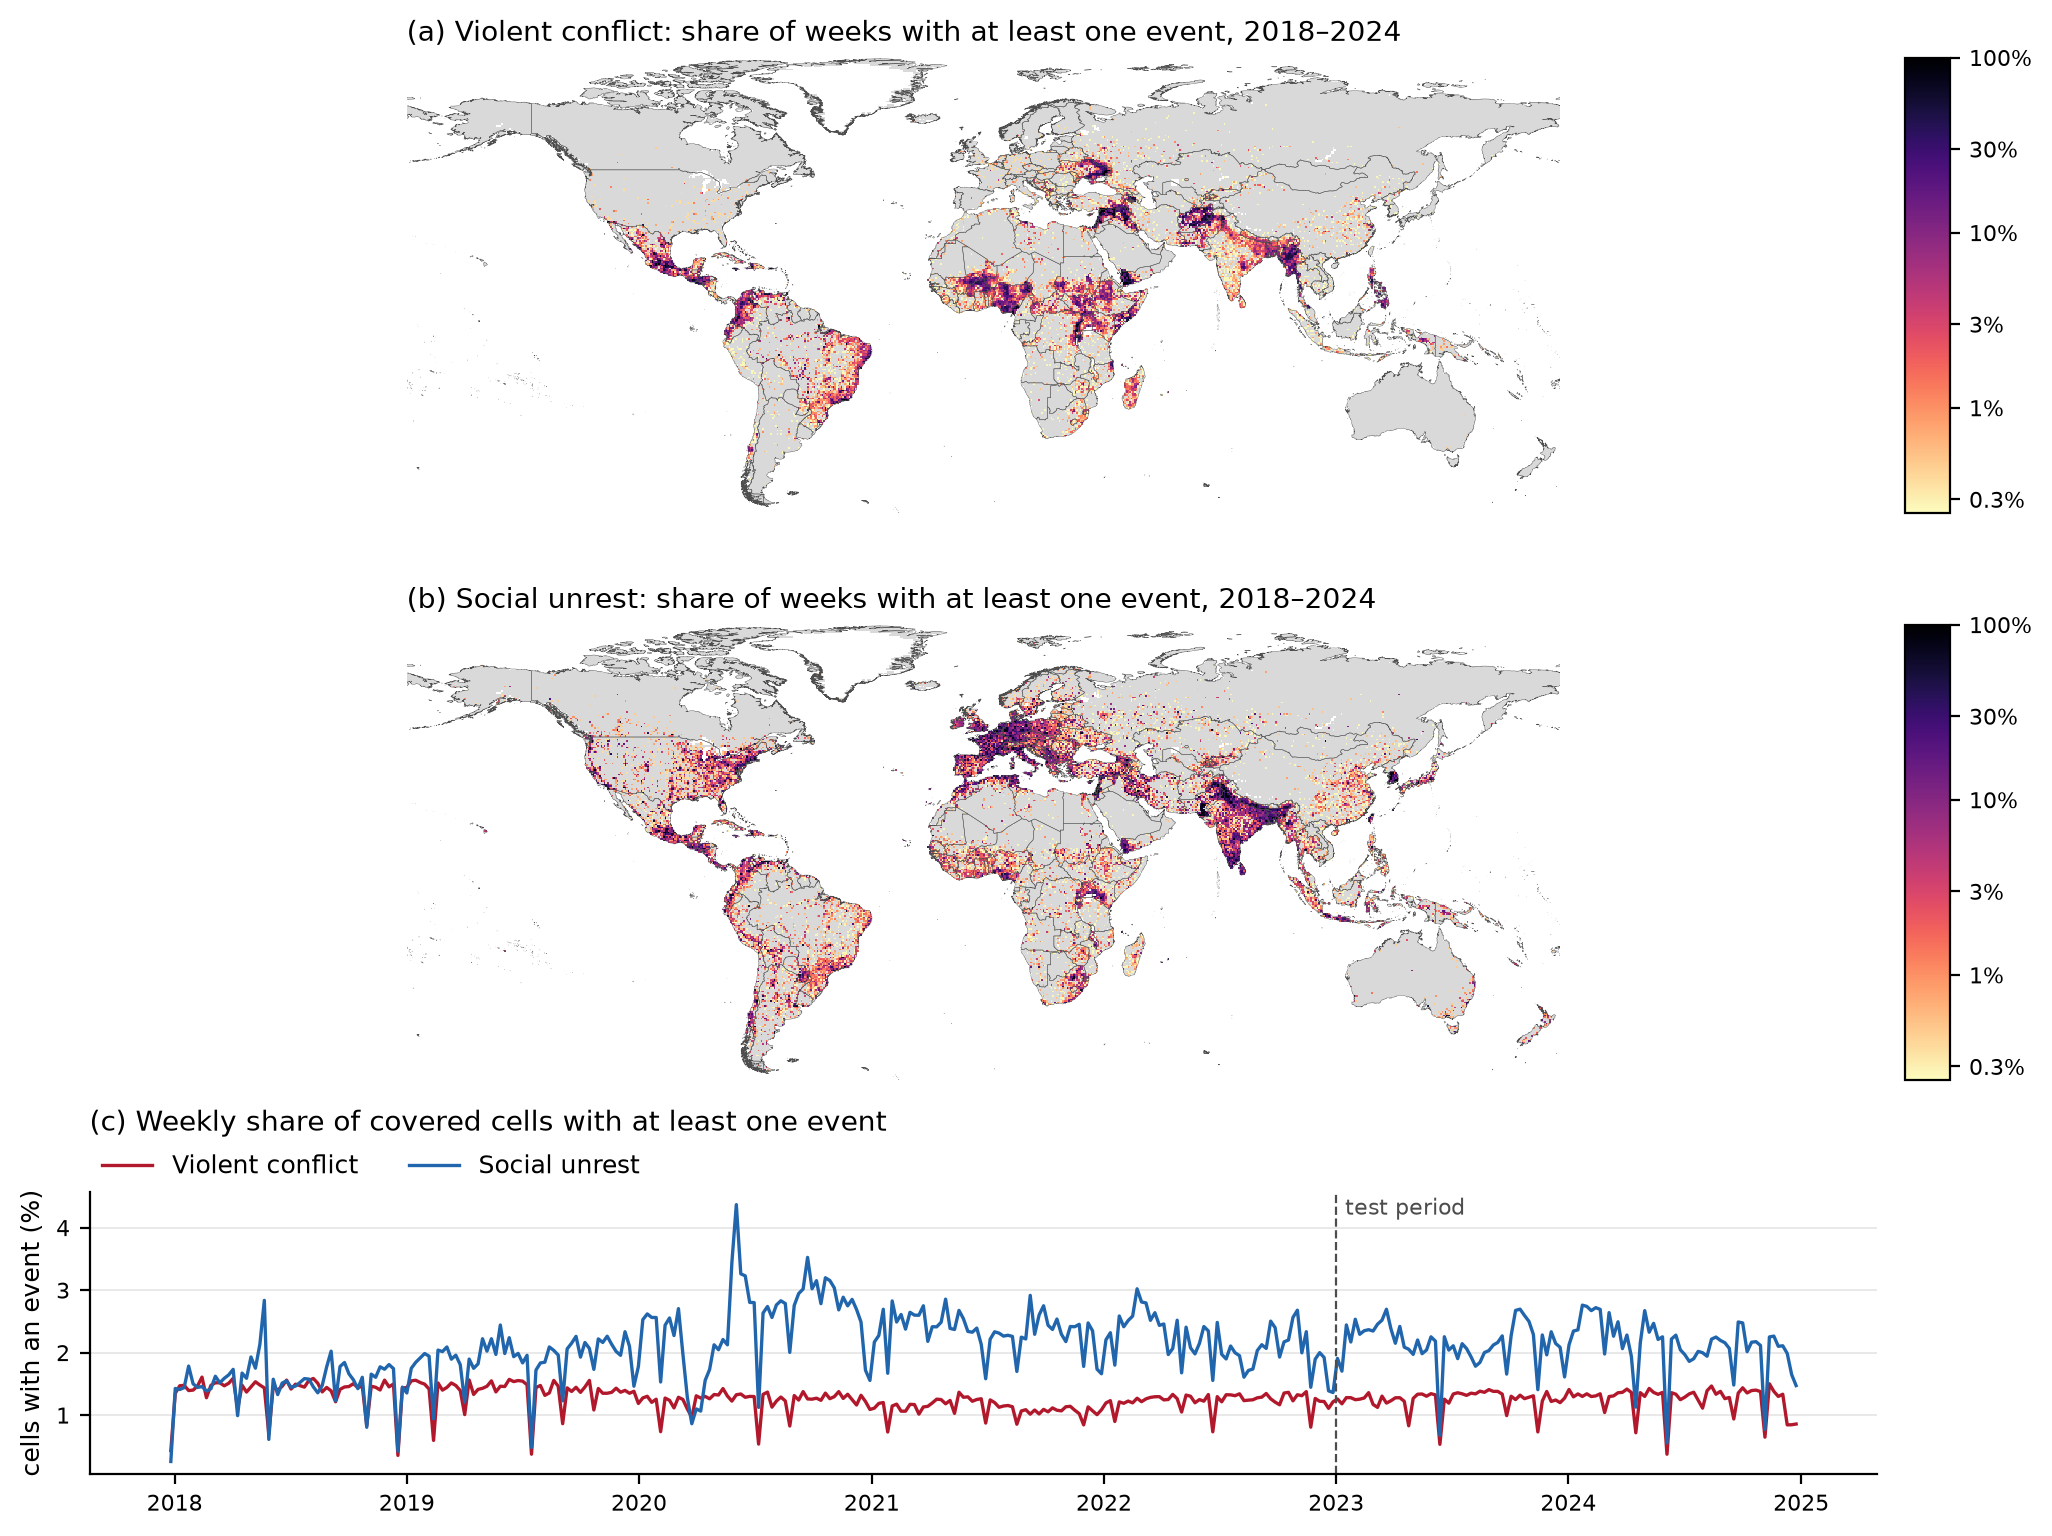
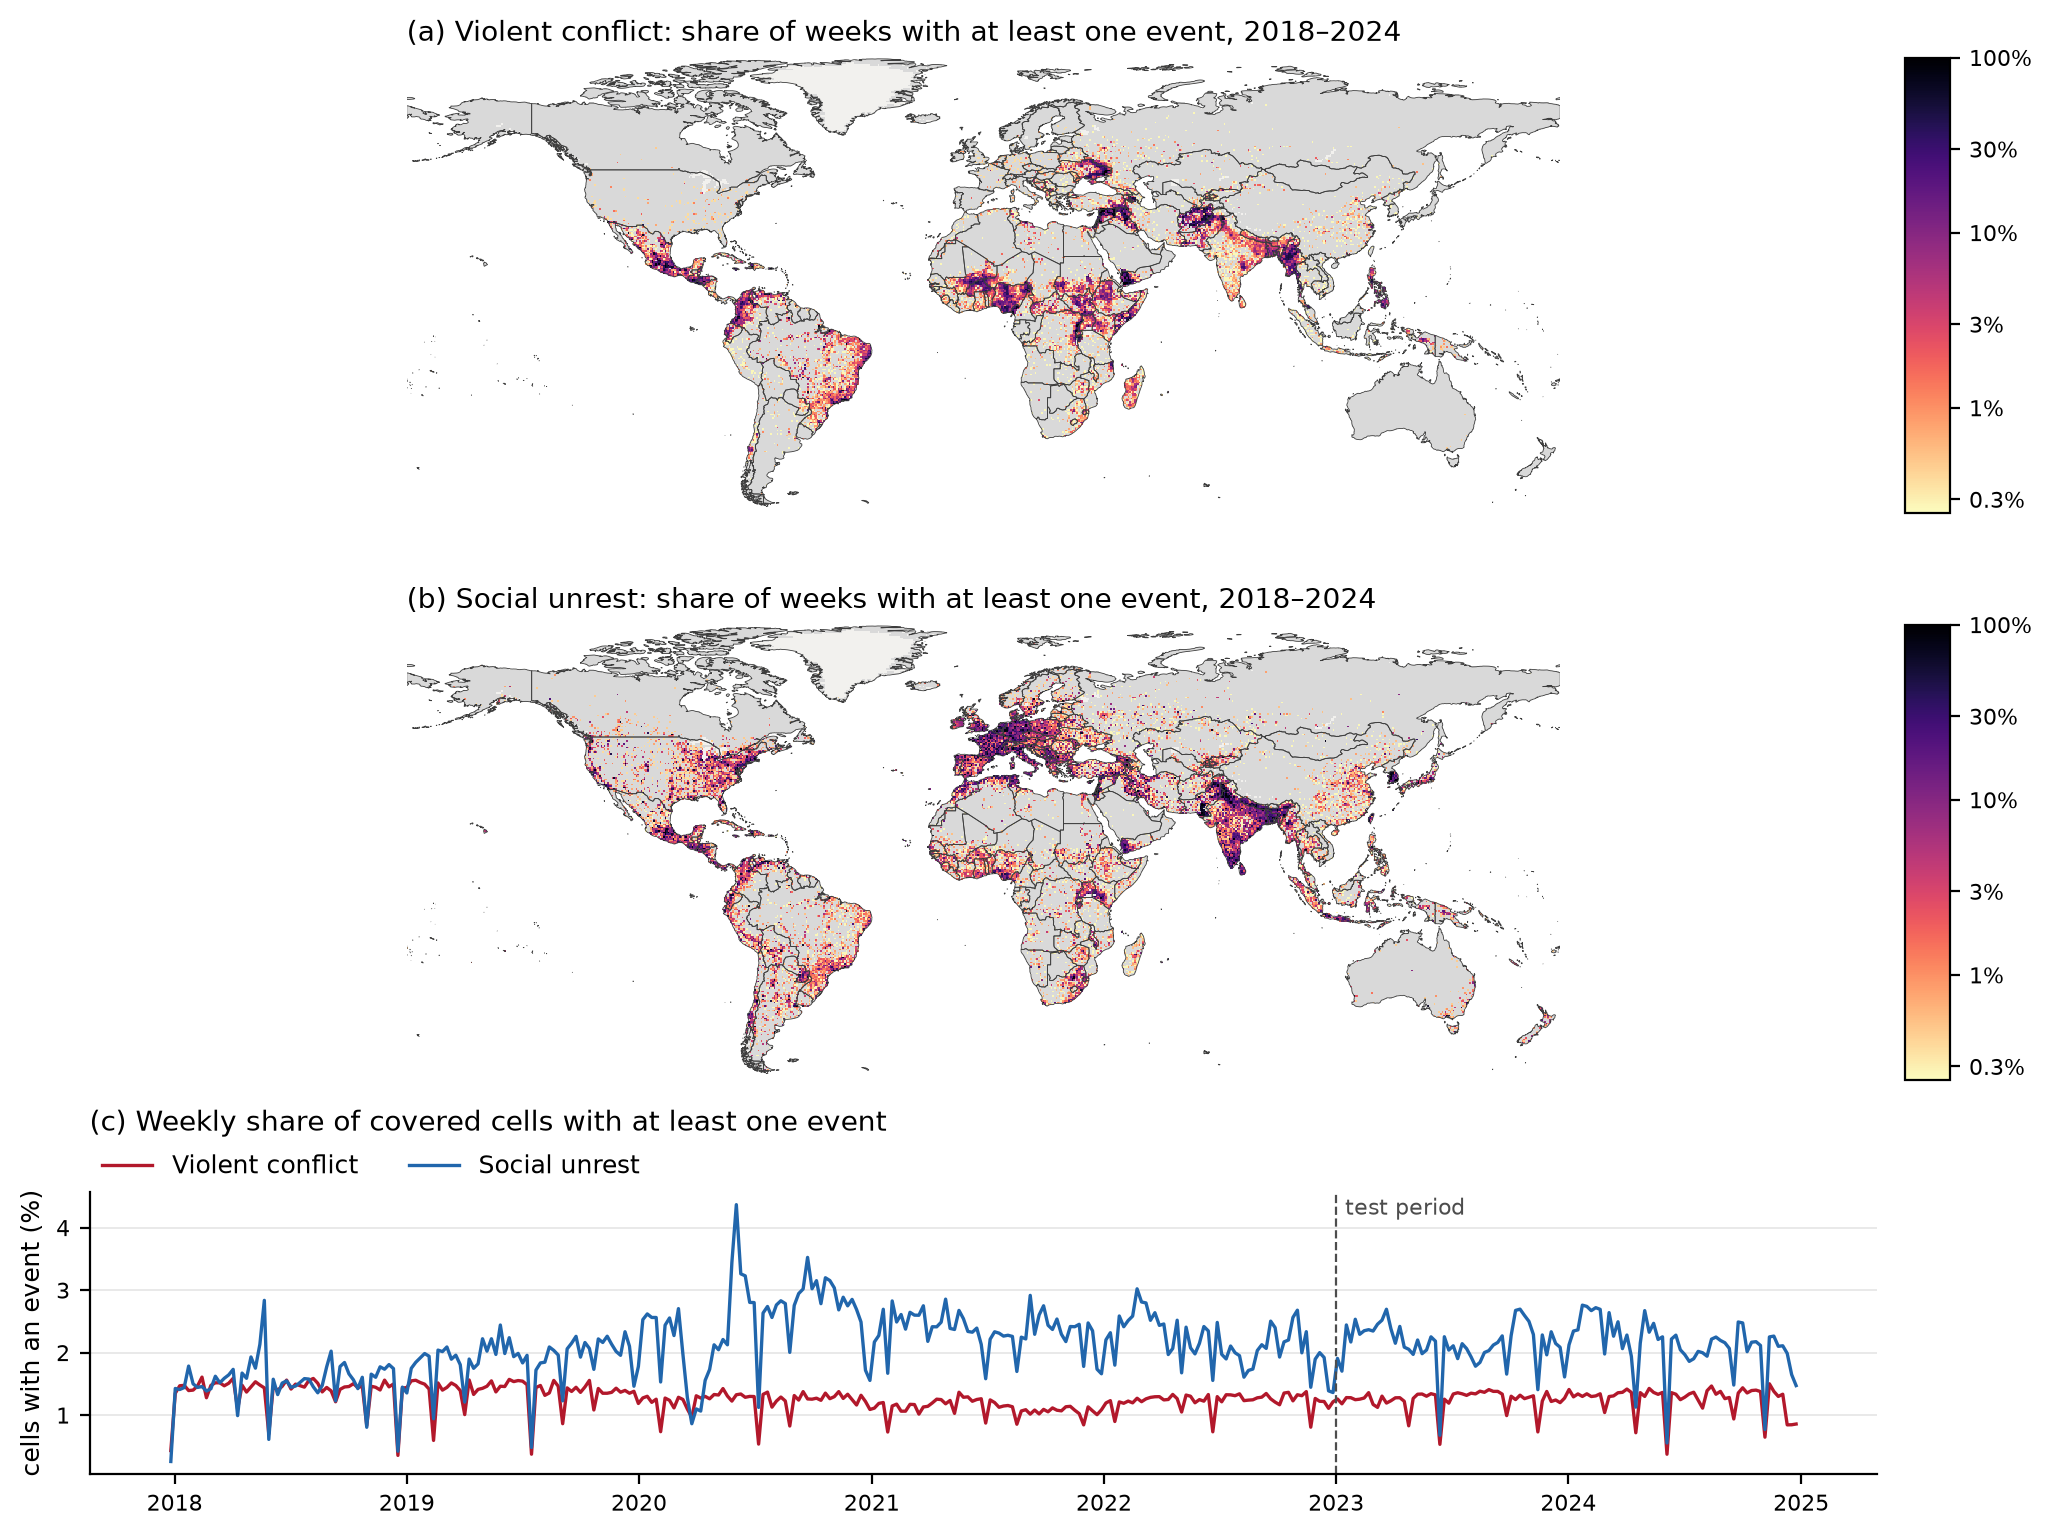
CRC: Task 2f data figure with 50m borders

diff --git a/crc/STATUS.md b/crc/STATUS.md
@@ -346,3 +346,11 @@ On these rows, the target-encoded XGBoost has the best scores. The hybrid field 
 0.01-0.02 AUC-PR of it, and both beat plain corrected XGB.
 
 Still running: 1693751 `cs_global` (Task 7) and 1693752 `cs_glmm` (Task 8).
+
+## 2026-11-06 13:20 EST: Task 2f rerun with the 50m borders (job 1693881, rc 0)
+- I pulled the new command and reran with `paper/data/ne_50m_countries.geojson`.
+- `paper/figures/data_events.png` and `.json` are committed. The JSON is identical to the 13:14 entry: the aggregates
+  don't depend on the borders file.
+- Visually checked: the borders and land background render correctly, and Greenland and Antarctica are drawn as
+  uncovered land.
+- The single-week dips in panel (c), noted in the 13:14 entry, are still there.
